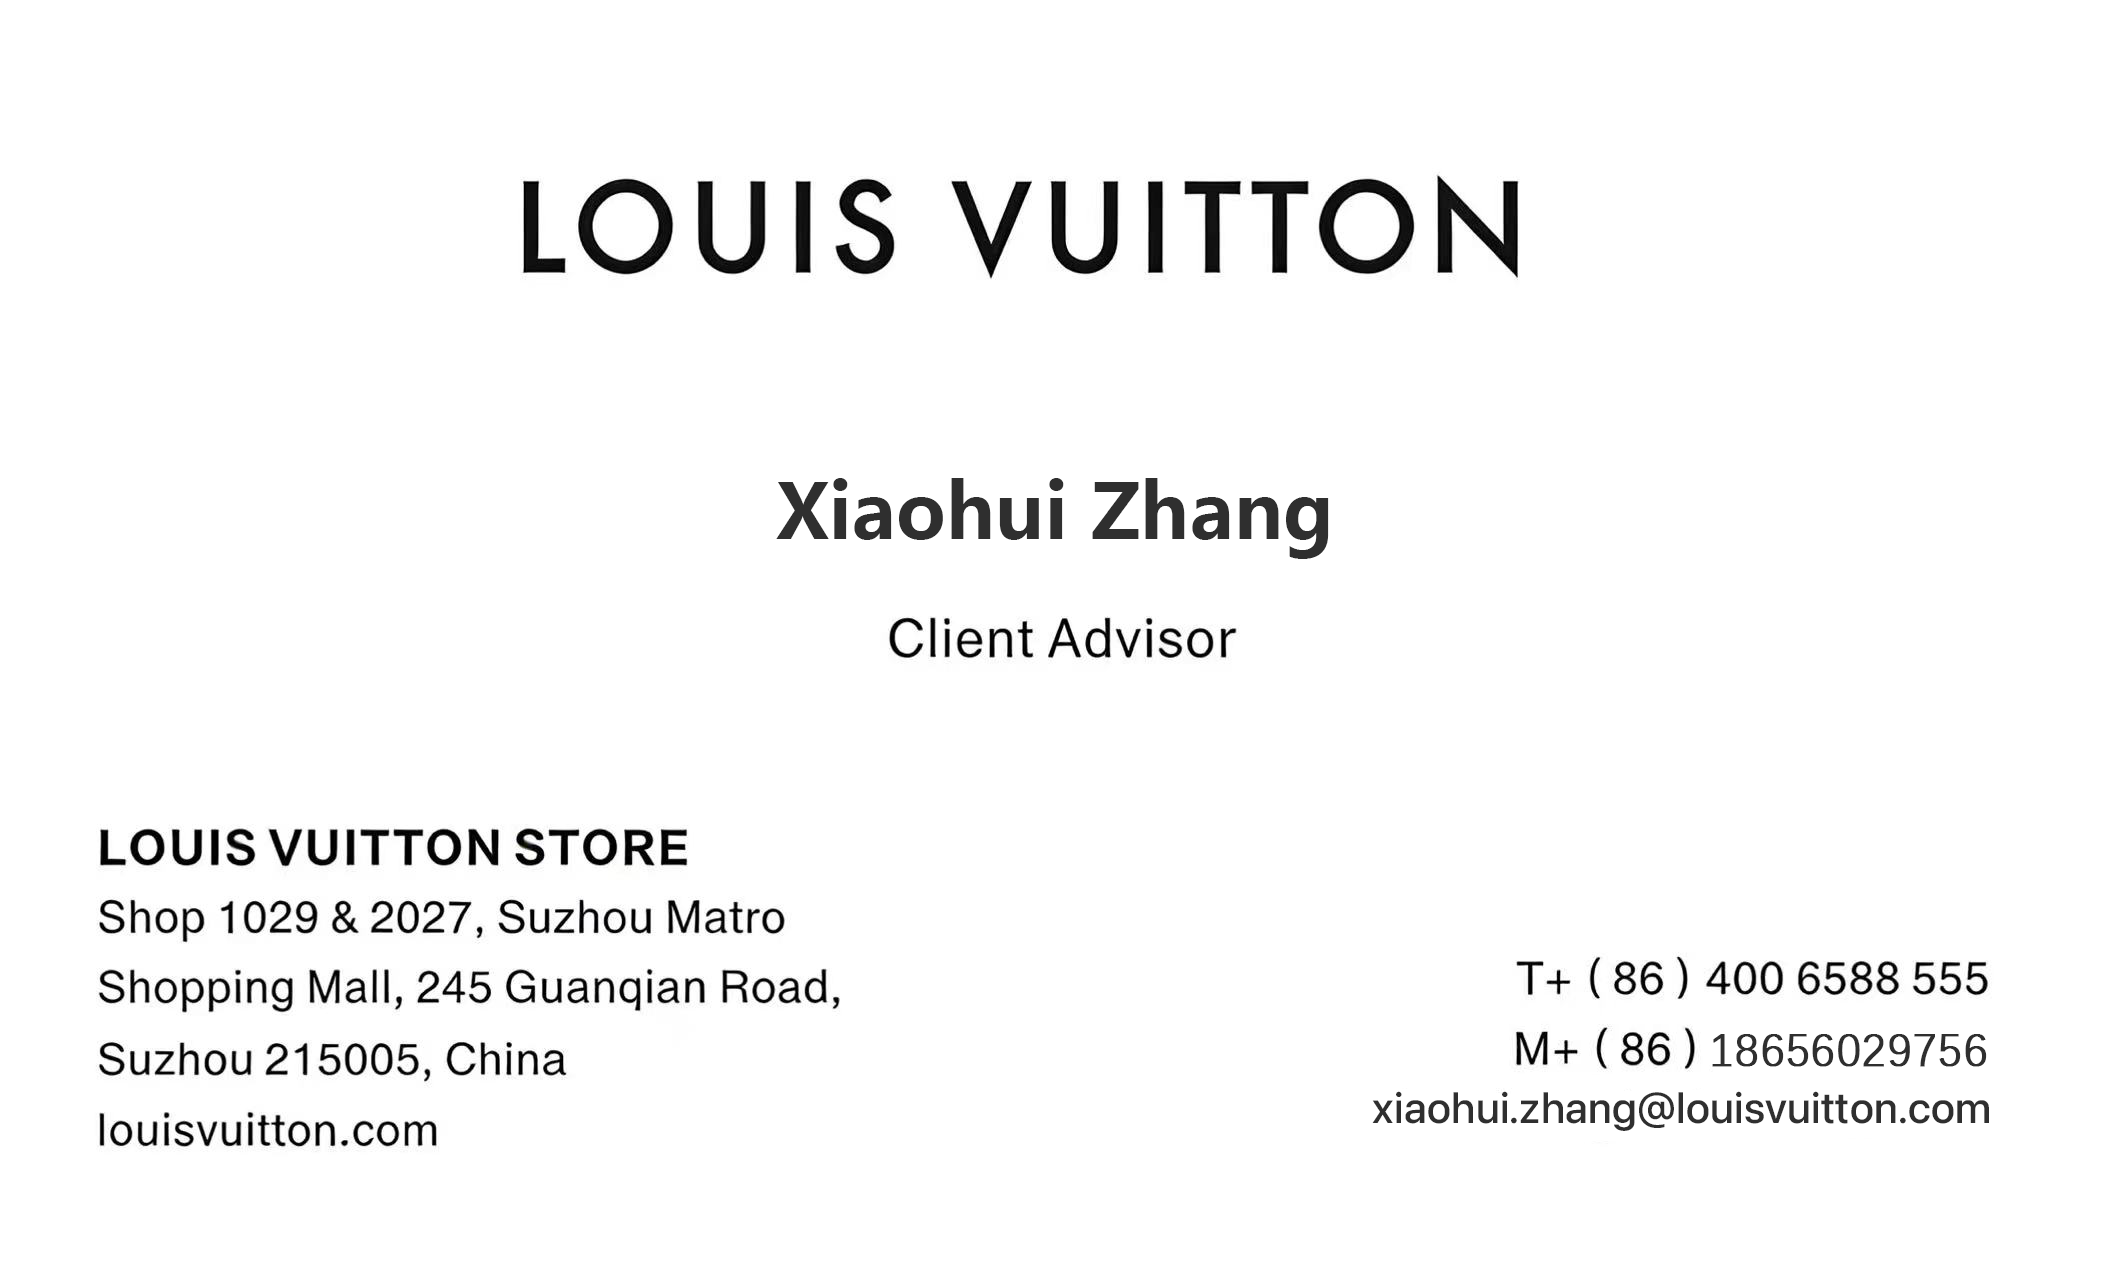
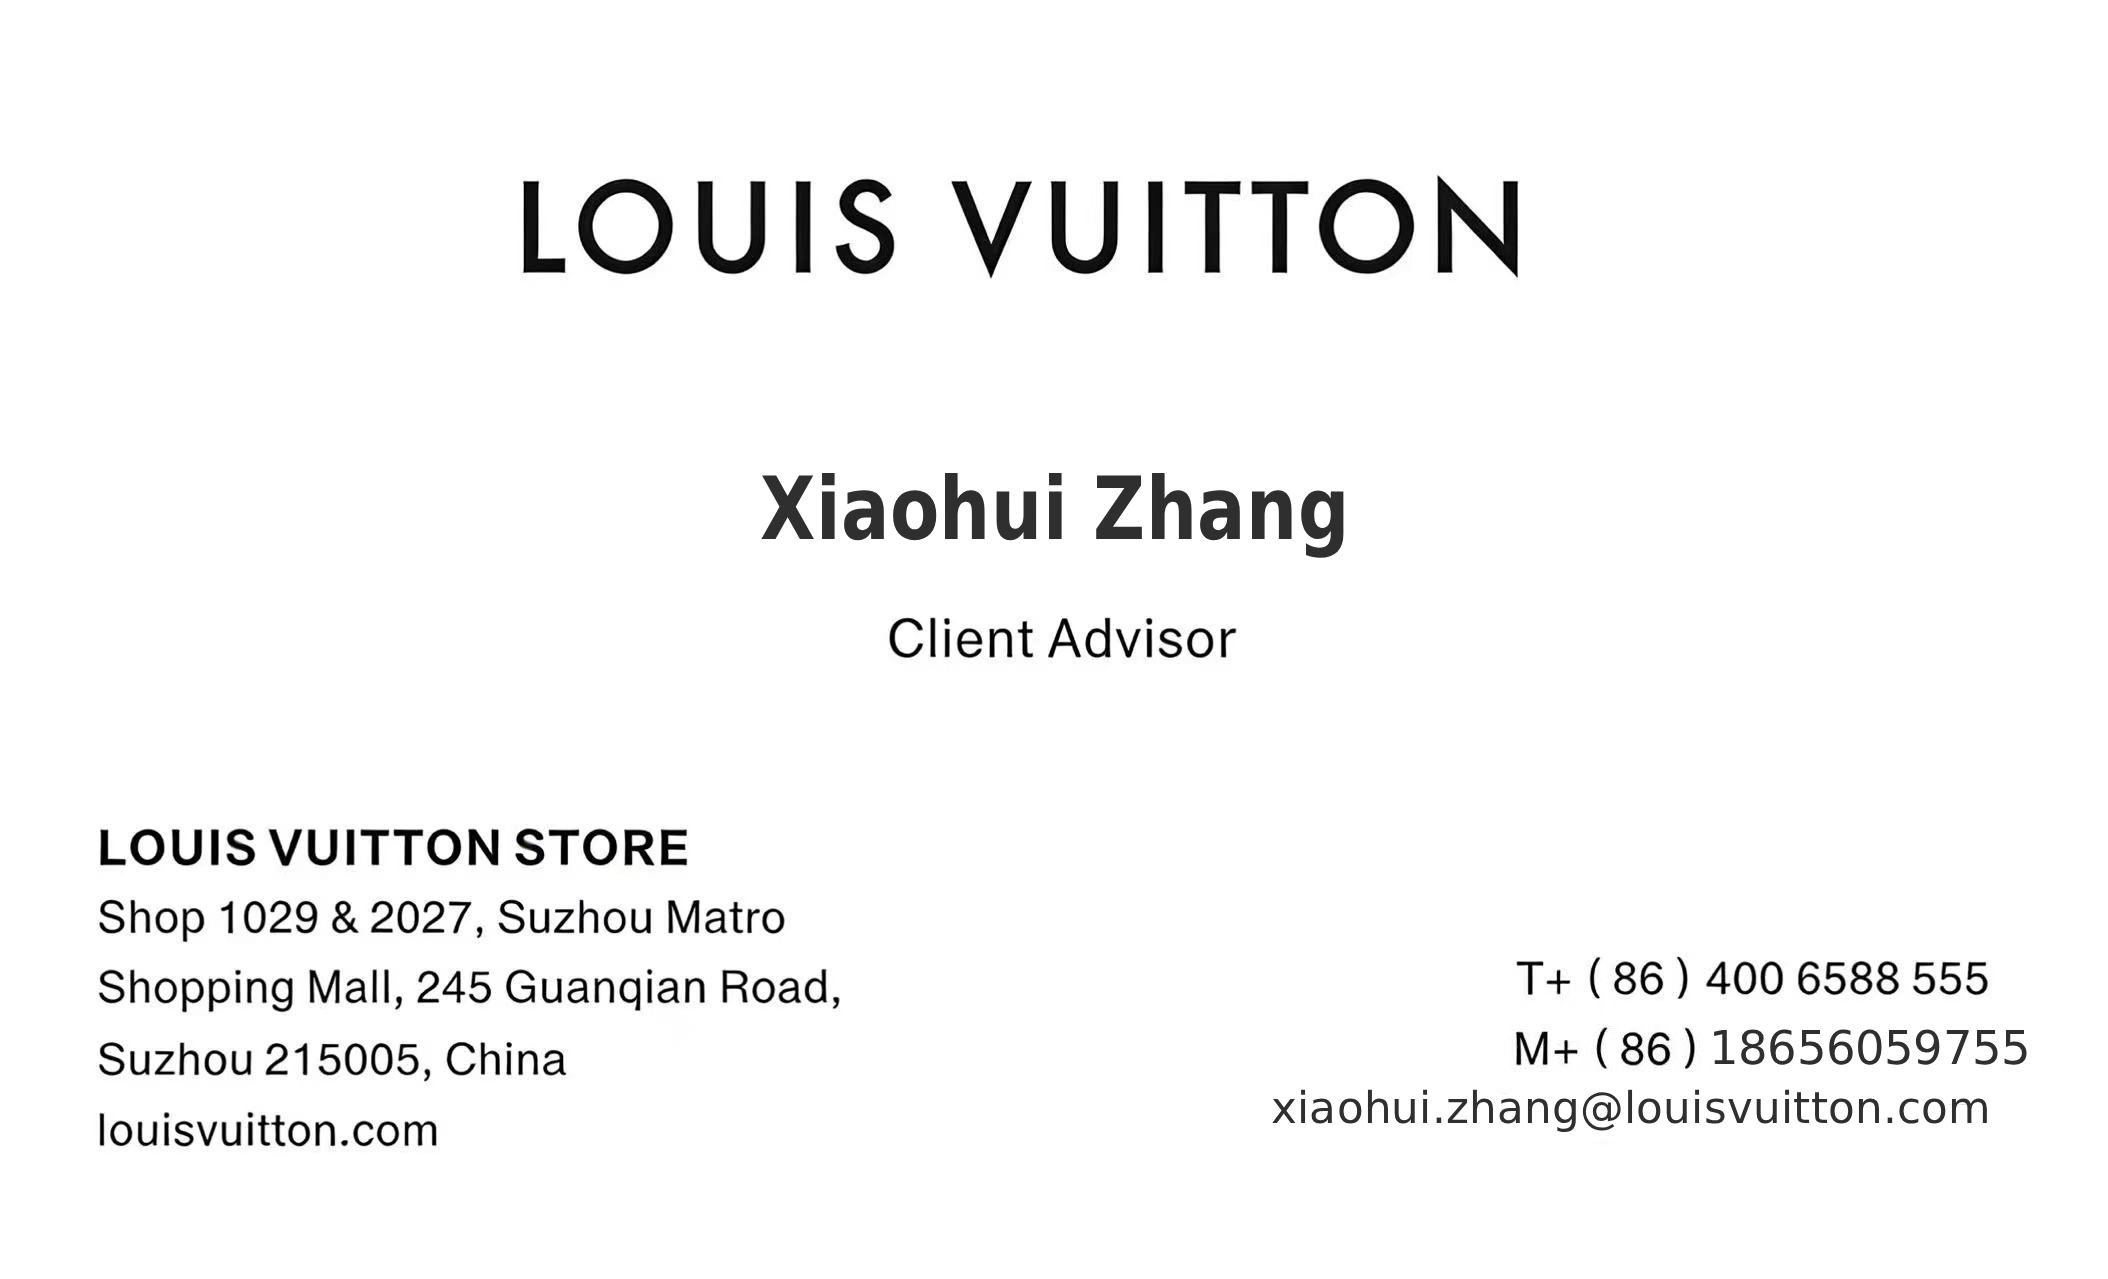
Refine LV card name and phone typography

Changed region(s): [[0.6167, 0.7928, 0.9559, 0.8843], [0.3392, 0.3659, 0.6475, 0.4574]]

diff --git a/template.js b/template.js
@@ -185,8 +185,16 @@ async function renderTemplatePSD(template, values) {
     templateProgress(35, '正在打开 PSD 图层…');
     await photopeaMessage(frame, psd, 90000);
     templateProgress(60, '正在替换文字图层…');
-    const replacements = template.fields.map((field, i) => ({layer:field.layer,value:values[i]}));
-    const script = `(function(){try{var items=${JSON.stringify(replacements)};var doc=app.activeDocument;if(!doc)throw Error('PSD 没有打开');function find(group,name){for(var i=0;i<group.length;i++){var layer=group[i];if(layer.name===name)return layer;if(layer.layers){var nested=find(layer.layers,name);if(nested)return nested}}return null}for(var j=0;j<items.length;j++){var layer=find(doc.layers,items[j].layer);if(!layer||!layer.textItem)throw Error('找不到文字图层：'+items[j].layer);layer.textItem.contents=items[j].value}doc.saveToOE('png')}catch(error){app.echoToOE('TEMPLATE_ERROR:'+error.message)}})();`;
+    const replacements = template.fields.map((field, i) => ({
+      layer: field.layer,
+      value: values[i],
+      style: template.id === '名片/LV（名字+邮箱+电话）' && field.layer === '名字'
+        ? 'lv-name'
+        : template.id === '名片/LV（名字+邮箱+电话）' && field.layer === '电话'
+          ? 'lv-phone'
+          : ''
+    }));
+    const script = `(function(){try{var items=${JSON.stringify(replacements)};var doc=app.activeDocument;if(!doc)throw Error('PSD 没有打开');function find(group,name){for(var i=0;i<group.length;i++){var layer=group[i];if(layer.name===name)return layer;if(layer.layers){var nested=find(layer.layers,name);if(nested)return nested}}return null}for(var j=0;j<items.length;j++){var layer=find(doc.layers,items[j].layer);if(!layer||!layer.textItem)throw Error('找不到文字图层：'+items[j].layer);layer.textItem.contents=items[j].value;if(items[j].style==='lv-name'){layer.textItem.verticalScale=115;layer.textItem.horizontalScale=95}else if(items[j].style==='lv-phone'){layer.textItem.fauxBold=false}}doc.saveToOE('png')}catch(error){app.echoToOE('TEMPLATE_ERROR:'+error.message)}})();`;
     templateProgress(75, '正在导出 PNG 图片…');
     const png = await photopeaMessage(frame, script, 90000);
     if (!png) throw new Error('PSD 编辑器没有返回图片');
